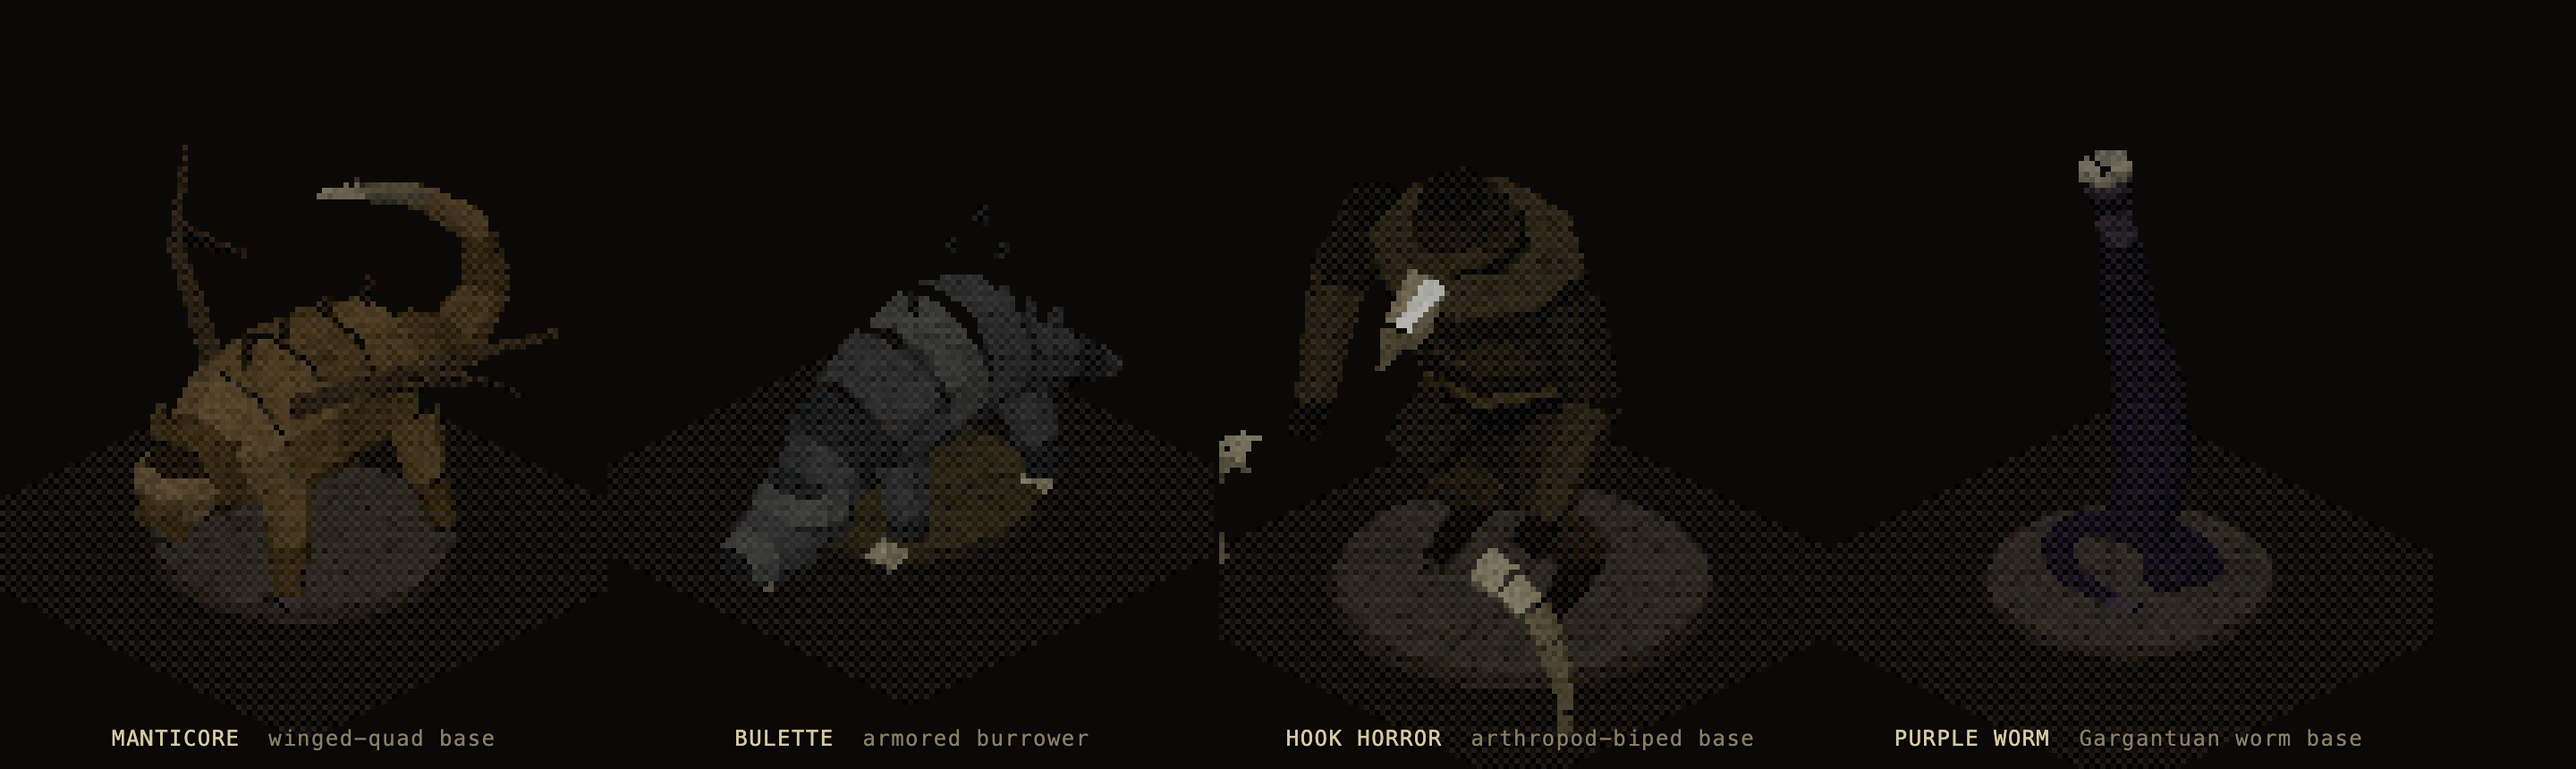
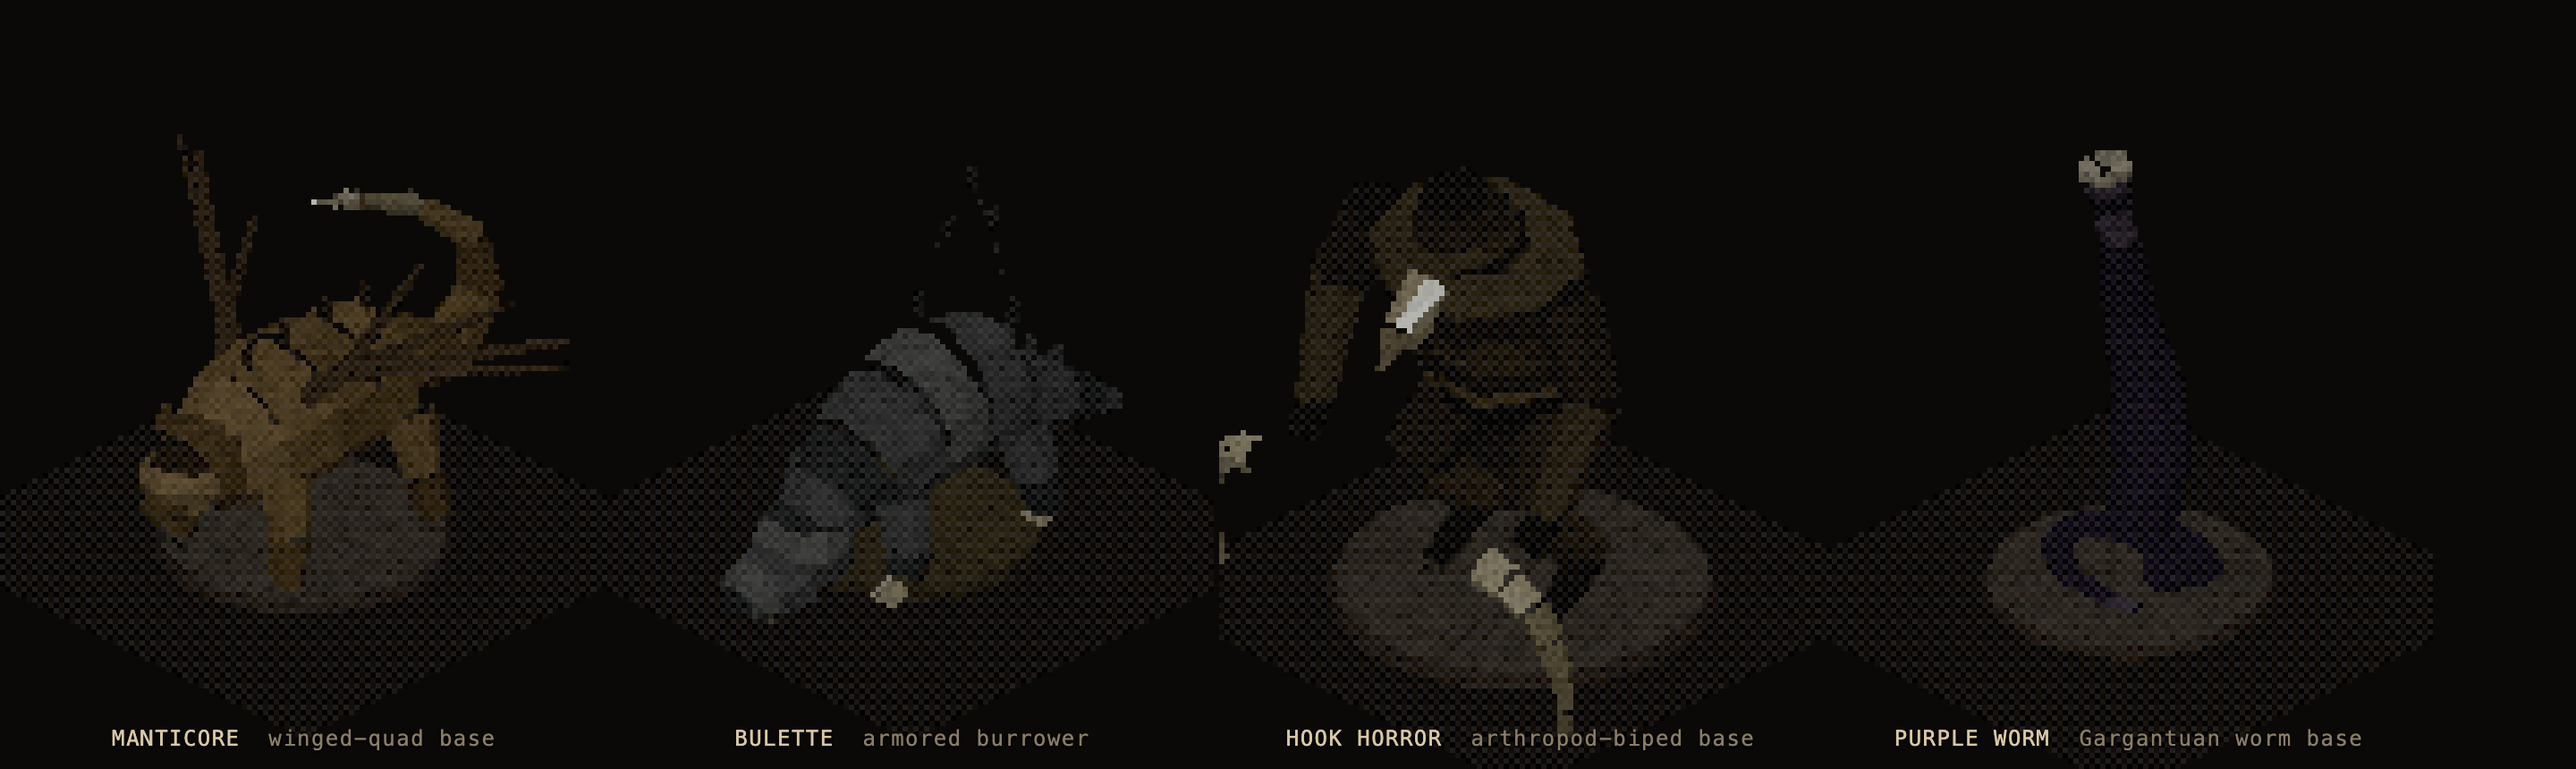
fix(models): P2 Wave 1 signatures — manticore wings + bulette dorsal fin
The two weak silhouettes from Wave 1's gate. Manticore: wings rebuilt as 4
finger-spars fanning off the shoulders with broad membrane sails peaking above
the back line (was a thin near-invisible strip). Bulette: a tall triangular
armored dorsal fin now the tallest point of the model (the land-shark read).
Both now legible in the fixed iso silhouette. Bodies/tails/legs untouched.

Integrates fix branches: manticore-wings 6a396bb, bulette-fin fe701f7.
Gates: check-manifest OK · verify-theater-figures 38/0 · re-render
dev/model-qa/p2-wave1-sheet.png (4/4, both signatures now read).

diff --git a/dev/model-qa/creatures/mon-bulette.js b/dev/model-qa/creatures/mon-bulette.js
@@ -14,7 +14,7 @@ export function buildBulette(){
     plate:0x5a5c5a, plateDk:0x3d3f3e, plateLt:0x6f716c,        // slate-grey armor plates
     seam:0x2a2b28,                                              // dark plate seams/joints
     dirt:0x63583f, dirtDk:0x453d2c,                             // dirt-scuffed grime patches
-    fin:0x4a4c4a, finDk:0x333432,                                // the big dorsal fin/plate ridge
+    fin:0x4a4c4a, finDk:0x333432, finLt:0x63655f,                // the big dorsal fin/plate ridge
     hide:0x54524a,                                              // hide between plates (throat/belly/joints)
     maw:0x241f19, tooth:0xcabf9e, toothDk:0x9d9377,             // dark maw, bone-pale teeth
     claw:0xc4b896, clawDk:0x958a6c,                              // bone-pale digging claws
@@ -59,29 +59,59 @@ export function buildBulette(){
     }
   }
 
-  /* ---------- DORSAL FIN/PLATE RIDGE — the signature: a big shark-fin-like plate crest running
-     the spine, tallest over the rump/hunch, sweeping back and down toward the tail. ---------- */
+  /* ---------- DORSAL FIN/PLATE CREST — THE SIGNATURE: one massive, unmistakable shark-fin-like
+     armored plate rising from mid-back, tallest at mid-hunch, tapering fore+aft. Built as a THICK
+     plate (not a sliver): a wide base footprint + two near-vertical side quads (left/right faces)
+     meeting at a ridge line, plus leading/trailing edge quads closing the thickness — reads as a
+     solid fin from the 3/4 iso angle. This is the tallest point of the whole creature. ---------- */
   {
     const finPts = [
-      {z:-0.52, base:0.56, tip:0.94},
-      {z:-0.40, base:0.60, tip:1.16},   // the tallest point of the crest — over the hunch
-      {z:-0.22, base:0.62, tip:1.10},
-      {z: 0.00, base:0.58, tip:0.90},
-      {z: 0.20, base:0.50, tip:0.68},
-      {z: 0.36, base:0.44, tip:0.52},
+      {z:-0.58, base:0.54, tip:0.80, half:0.030},
+      {z:-0.46, base:0.58, tip:1.28, half:0.075},
+      {z:-0.34, base:0.61, tip:1.52, half:0.085},   // apex — the tallest point of the crest
+      {z:-0.20, base:0.61, tip:1.36, half:0.070},
+      {z:-0.04, base:0.58, tip:1.06, half:0.055},
+      {z: 0.14, base:0.51, tip:0.78, half:0.038},
+      {z: 0.30, base:0.44, tip:0.56, half:0.022},
     ];
+
     for(let i=0;i<finPts.length-1;i++){
       const a=finPts[i], b=finPts[i+1];
-      const baseA=V(0,a.base,a.z), baseB=V(0,b.base,b.z);
-      const tipA=V(0,a.tip,a.z*0.94), tipB=V(0,b.tip,b.z*0.94);
-      // thin bladed plate: two side quads (front/back face) + a thin cap edge for thickness read
-      quad(baseA, baseB, tipB, tipA, i%2? P.fin : P.finDk, 0.05);
-      const thick=0.028;
-      quad(V(-thick,a.base,a.z),V(thick,a.base,a.z),V(thick,b.base,b.z),V(-thick,b.base,b.z), P.finDk, 0.05);
+      const ha=a.half, hb=b.half;
+      const baseAL=V(-ha*0.5,a.base,a.z), baseAR=V(ha*0.5,a.base,a.z);
+      const baseBL=V(-hb*0.5,b.base,b.z), baseBR=V(hb*0.5,b.base,b.z);
+      const tipA  =V(0,a.tip,a.z);
+      const tipB  =V(0,b.tip,b.z);
+      const tipAL =V(-ha*0.18,a.tip-0.03,a.z), tipAR=V(ha*0.18,a.tip-0.03,a.z);
+      const tipBL =V(-hb*0.18,b.tip-0.03,b.z), tipBR=V(hb*0.18,b.tip-0.03,b.z);
+      // LEFT face (thick plate, from left-base up to near the ridge)
+      quad(baseAL, baseBL, tipBL, tipAL, P.finDk, 0.05);
+      // RIGHT face
+      quad(baseAR, baseBR, tipBR, tipAR, P.fin, 0.05);
+      // RIDGE cap — narrow strip joining left/right tips into one solid edge along the top
+      quad(tipAL, tipAR, tipBR, tipBL, P.finLt, 0.04);
+      // TOP tip line (the very apex edge, slightly darker seam)
+      quad(tipAL, tipAR, tipB, tipA, P.finDk, 0.03);
     }
-    // serrated plate notches along the crest's trailing edge (armored-plate read, not smooth fin)
+    // LEADING edge (front-most fin segment) — closes the thickness so the front reads solid, not a sliver
+    {
+      const a=finPts[0], ha=a.half;
+      quad(V(-ha*0.5,a.base,a.z), V(ha*0.5,a.base,a.z), V(ha*0.18,a.tip-0.03,a.z), V(-ha*0.18,a.tip-0.03,a.z), P.finDk, 0.05);
+    }
+    // TRAILING edge (rear-most fin segment)
+    {
+      const b=finPts.at(-1), hb=b.half;
+      quad(V(hb*0.5,b.base,b.z), V(-hb*0.5,b.base,b.z), V(-hb*0.18,b.tip-0.03,b.z), V(hb*0.18,b.tip-0.03,b.z), P.fin, 0.05);
+    }
+    // serrated armor-plate notches along the crest's trailing (upper) edge — plate read, not smooth fin
     for(const a of finPts){
-      quad(V(-0.03,a.tip-0.05,a.z), V(0.03,a.tip-0.05,a.z), V(0.018,a.tip+0.03,a.z-0.02), V(-0.018,a.tip+0.03,a.z-0.02), P.finDk, 0.06);
+      quad(V(-0.035,a.tip-0.06,a.z), V(0.035,a.tip-0.06,a.z), V(0.020,a.tip+0.04,a.z-0.025), V(-0.020,a.tip+0.04,a.z-0.025), P.finDk, 0.06);
+    }
+    // darker seam band at the fin's base where it meets the back-armor (grounds the fin visually)
+    for(let i=0;i<finPts.length-1;i++){
+      const a=finPts[i], b=finPts[i+1];
+      const ha=a.half*1.3, hb=b.half*1.3;
+      quad(V(-ha*0.5,a.base-0.015,a.z), V(ha*0.5,a.base-0.015,a.z), V(hb*0.5,b.base-0.015,b.z), V(-hb*0.5,b.base-0.015,b.z), P.seam, 0.04);
     }
   }
 

diff --git a/dev/model-qa/creatures/mon-manticore.js b/dev/model-qa/creatures/mon-manticore.js
@@ -127,31 +127,44 @@ export function buildManticore(){
     leg(V( 0.210, spY-0.01, -0.32),  0.30, -0.40, P.hide);
   }
 
-  /* ---------- WINGS — leathery bat wings off the shoulders, folded/half-spread (angled up+back,
-     not fully extended); membrane webbed between bone struts, dark and desaturated. ---------- */
+  /* ---------- WINGS — the manticore's SIGNATURE feature: big leathery bat wings rising up and back
+     off the shoulders, HALF-SPREAD (not folded flat). Each wing = a shoulder root + 4 splayed finger-
+     spars fanning up/back, with large membrane quads stretched between them so the wing reads as a
+     broad shape in silhouette (not a thin edge). Top spar arcs well above the mane/back line. ---------- */
   {
     const wing=(side)=>{
-      const root = V(side*0.20, spY+0.22, 0.24);          // shoulder root
-      const elbow= V(side*0.62, spY+0.46, 0.02);          // wing elbow, swept up+back
-      const wTip = V(side*0.92, spY+0.58, -0.34);         // wingtip, half-spread (not full extension)
-      const hTip = V(side*0.70, spY+0.20, -0.42);         // lower/hind membrane anchor near the rump
+      const root = V(side*0.16, spY+0.20, 0.20);           // shoulder root, tucked near the mane
 
-      // bone struts (leading-edge arm + a splayed finger-strut)
-      tube(root, elbow, 0.045, 0.030, 5, P.wingBone);
-      tube(elbow, wTip,  0.030, 0.012, 5, P.wingBone, {capB:{hex:P.wingBone, lift:0.004}});
-      const fingerMid = V(side*0.78, spY+0.40, -0.16);
-      tube(elbow, fingerMid, 0.022, 0.012, 4, P.wingBone);
-      tube(fingerMid, hTip,  0.012, 0.008, 4, P.wingBone, {capB:{hex:P.wingBone, lift:0.003}});
+      // four finger-spars fanning from the root — top spar rises highest (above the back line ~spY+0.42),
+      // bottom spar sweeps low/back so the membrane spread is tall AND wide, not a sliver.
+      const f1 = V(side*0.58, spY+0.86, -0.02);            // top spar — the leading edge, arcs highest
+      const f2 = V(side*0.86, spY+0.74, -0.22);            // upper-mid spar
+      const f3 = V(side*0.96, spY+0.54, -0.42);            // lower-mid spar
+      const f4 = V(side*0.80, spY+0.30, -0.56);            // bottom spar, trailing toward the rump
 
-      // membrane panels — quads webbing strut-to-strut-to-body, dark leathery, jitter for texel-grit
-      quad(root, elbow, fingerMid, V(side*0.34, spY+0.30, 0.10), P.wing, 0.10);
-      quad(elbow, wTip, hTip, fingerMid, P.wingDk, 0.10);
-      quad(fingerMid, hTip, V(side*0.42, spY+0.14, -0.20), V(side*0.30, spY+0.22, 0.02), P.wing, 0.10);
-      // trailing scalloped edge hint (small notch quads along the membrane's outer rim)
-      for(const t of [0.3,0.55,0.8]){
-        const a = new THREE.Vector3().lerpVectors(elbow, wTip, t);
-        const b = new THREE.Vector3().lerpVectors(elbow, wTip, Math.min(1,t+0.12));
-        const dip = V((a.x+b.x)/2, (a.y+b.y)/2 - 0.05, (a.z+b.z)/2);
+      // bone struts: a short humerus off the shoulder, then each finger-spar out to its tip
+      const shoulder = V(side*0.30, spY+0.34, 0.10);
+      tube(root, shoulder, 0.055, 0.042, 5, P.wingBone);
+      tube(shoulder, f1, 0.042, 0.014, 5, P.wingBone, {capB:{hex:P.wingBone, lift:0.005}});
+      tube(shoulder, f2, 0.040, 0.013, 5, P.wingBone, {capB:{hex:P.wingBone, lift:0.005}});
+      tube(shoulder, f3, 0.036, 0.012, 5, P.wingBone, {capB:{hex:P.wingBone, lift:0.004}});
+      tube(shoulder, f4, 0.032, 0.011, 4, P.wingBone, {capB:{hex:P.wingBone, lift:0.004}});
+
+      // membrane — large-area quads stretched spar-to-spar-to-shoulder, dark leathery, VS-desaturated.
+      // Each panel spans a full gap between adjacent spars so the wing reads as one broad sail in
+      // silhouette from above/side, its top edge clearly above the back/mane line.
+      quad(shoulder, f1, f2, shoulder, P.wing, 0.10);
+      quad(shoulder, f2, f3, shoulder, P.wingDk, 0.10);
+      quad(shoulder, f3, f4, shoulder, P.wing, 0.10);
+      // trailing membrane skirt from the bottom spar back down toward the body, closing the sail low
+      const hTrail = V(side*0.42, spY+0.16, -0.46);
+      quad(shoulder, f4, hTrail, root, P.wingDk, 0.10);
+
+      // scalloped trailing-edge notches along the membrane's outer rim (leading edge f1→f2→f3→f4)
+      const rim = [f1,f2,f3,f4];
+      for(let i=0;i<rim.length-1;i++){
+        const a = rim[i], b = rim[i+1];
+        const dip = V((a.x+b.x)/2, (a.y+b.y)/2 - 0.07, (a.z+b.z)/2);
         quad(a, b, dip, dip, P.wingDk, 0.08);
       }
     };
